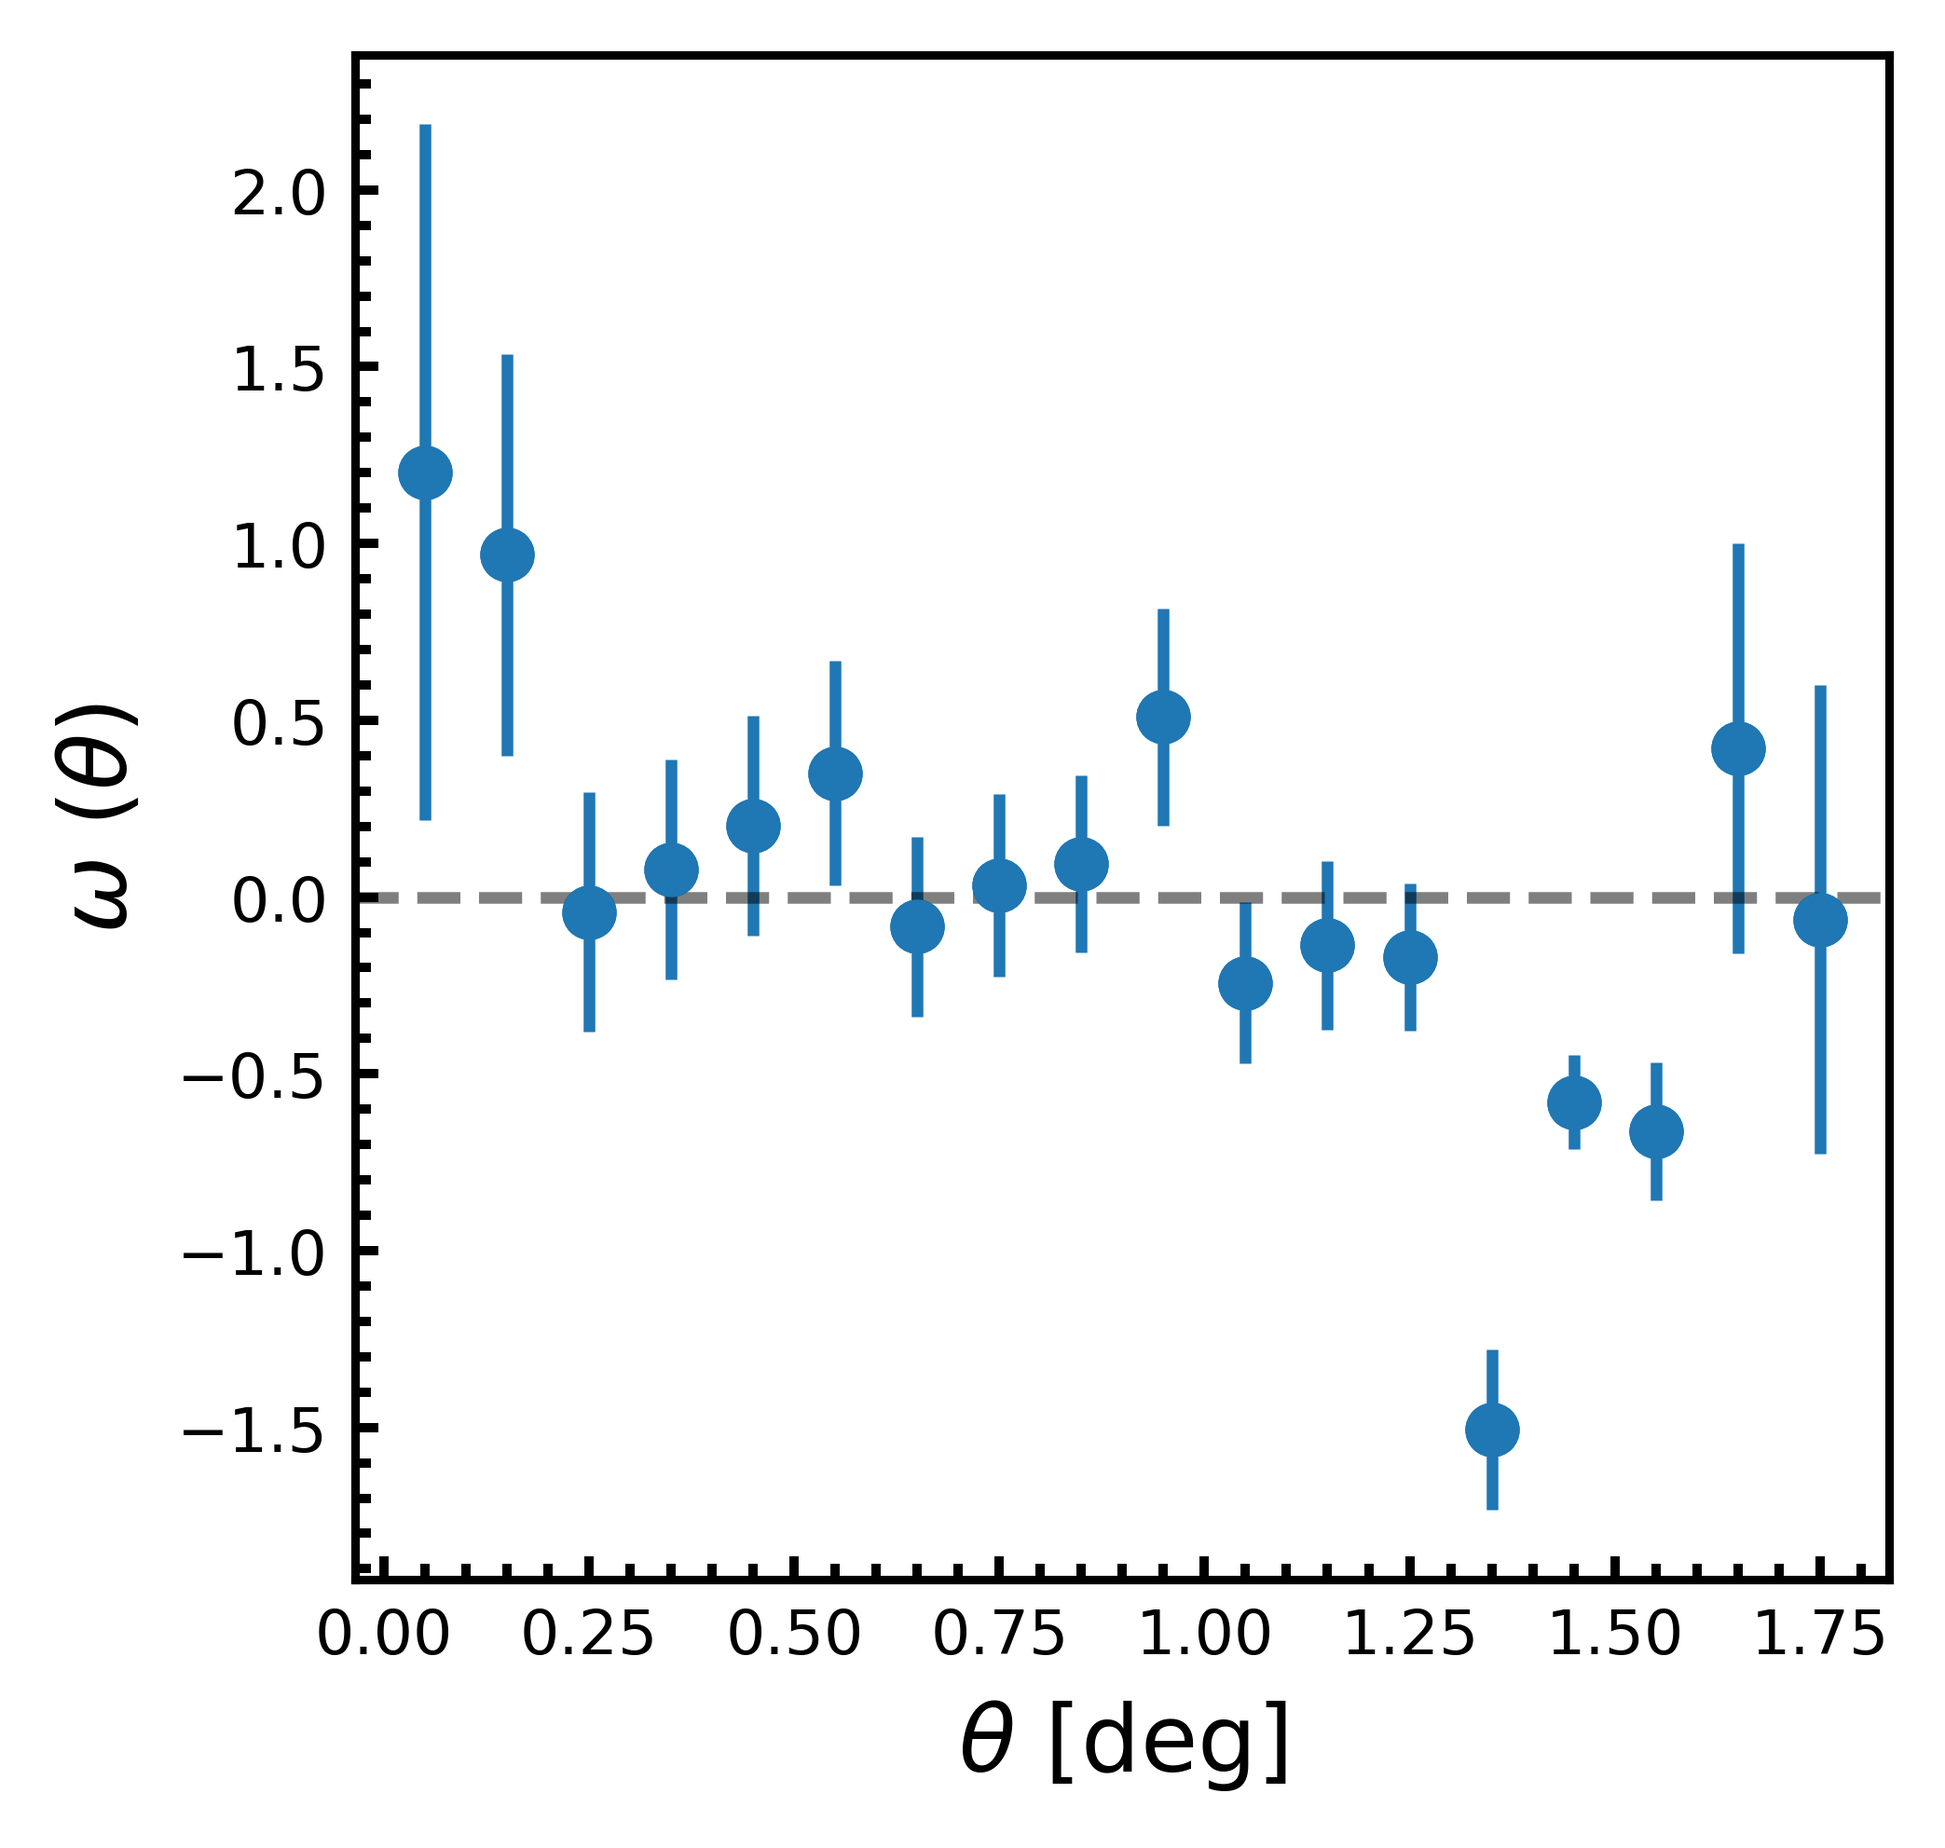
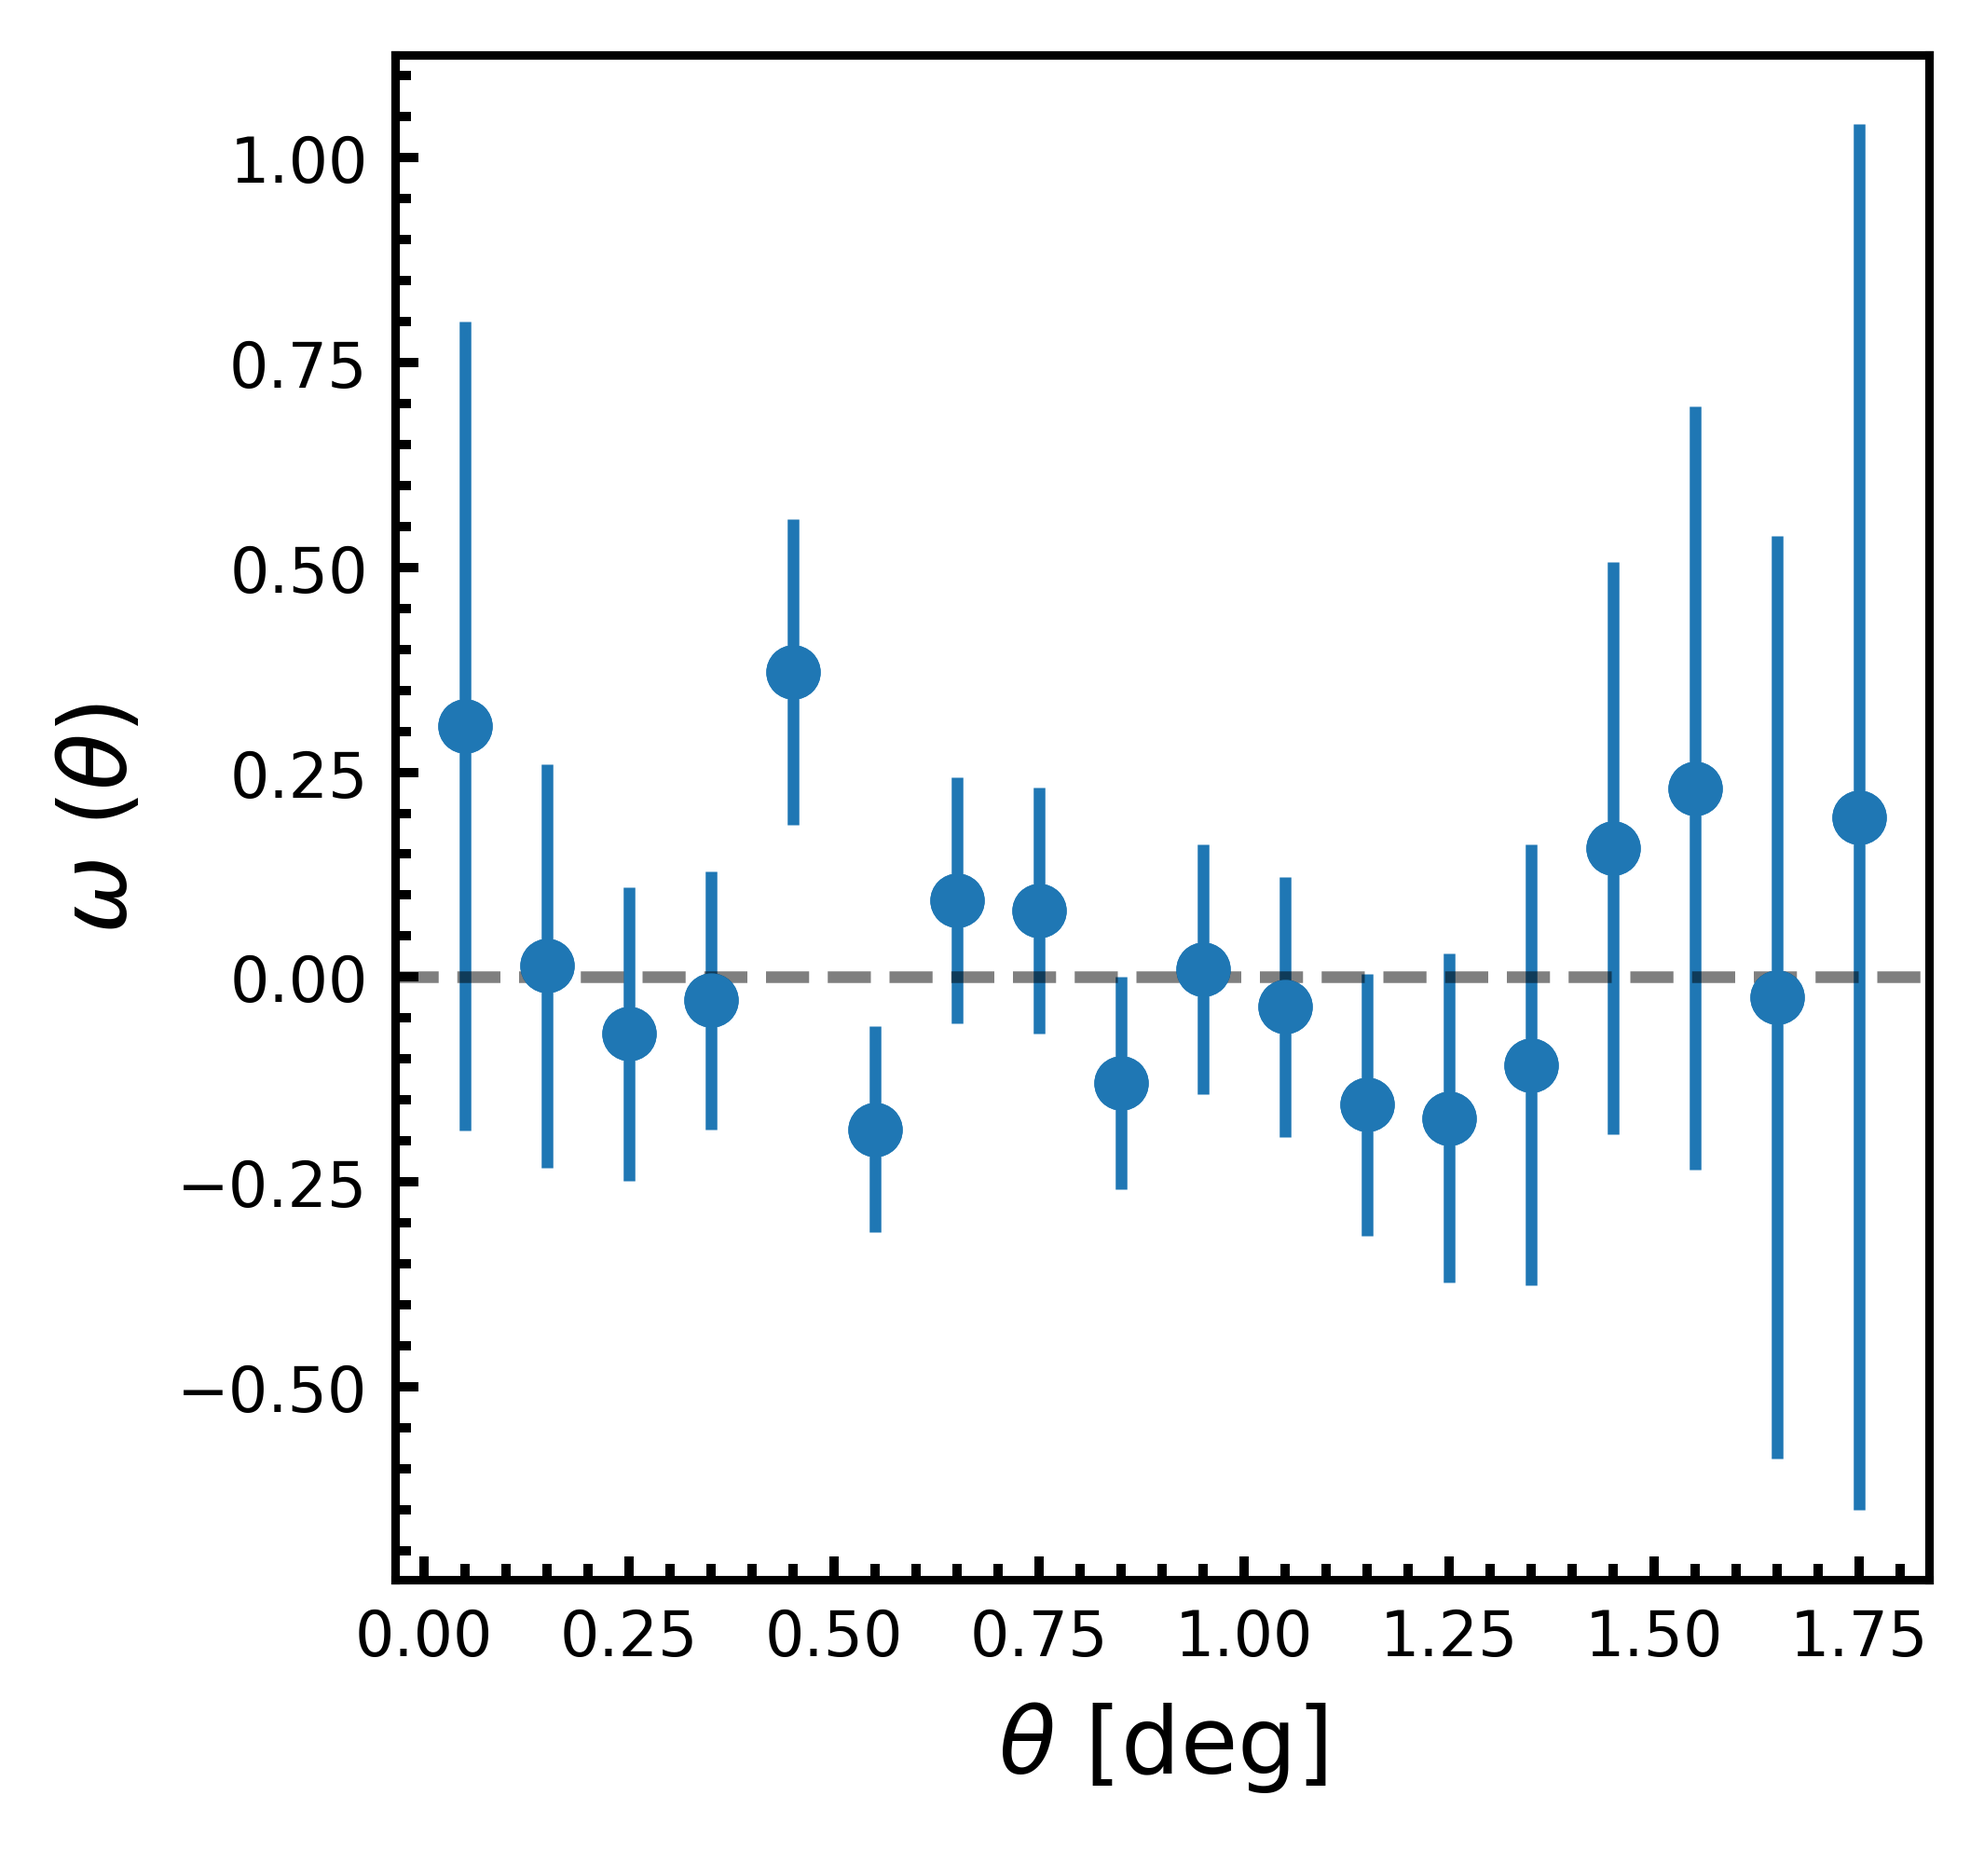
Adding postage stamps

diff --git a/plot_paper_postage_stamps.py b/plot_paper_postage_stamps.py
@@ -2,3 +2,136 @@
 Making postage stamp plots for the paper.
 """
 
+import numpy as np
+import matplotlib.pyplot as plt
+from pandas import DataFrame
+from astropy.io import fits
+from astropy.visualization import ZScaleInterval
+import scipy.ndimage as ndimage
+
+from plot_cumulative import cross_match_to_sexcat
+from sex_catalog import SExtractorCat
+from plot_postage_stamps import cut_postage_stamp
+from zero_points import zero_points
+from plotting import end_plot
+
+
+# Our candidates
+INFILE_US = 'candidates_e.txt'
+I_CATALOG = '../correct_stacks/N964/i.cat'
+Z_CATALOG = '../correct_stacks/N964/z.cat'
+N_CATALOG = '../correct_stacks/N964/n964.cat'
+I_FITS = '../correct_stacks/N964/i.fits'
+Z_FITS = '../correct_stacks/N964/z.fits'
+N_FITS = '../correct_stacks/N964/n964.fits'
+i_fits = fits.open(I_FITS)
+z_fits = fits.open(Z_FITS)
+n_fits = fits.open(N_FITS)
+
+SIGMA_I_3 = '>26.16'
+SIGMA_Z_3 = '>26.23'
+
+def fancy_round(mag) -> str:
+    """
+    Rounds a given mag value which can be either a flot or a string.
+    If it is a string then no rounding is done.
+    """
+    try:
+        val = round(mag, 2)
+    except TypeError:
+        val = mag
+    return str(val)
+
+def replace_non_detections(catalog: DataFrame, replacement_value: str) -> DataFrame:
+    """
+    Replaces the non detect corrected magnitudes with the replacement value.
+    Ususally this replacement value should be the 2 or 3 sigma limiting 
+    magnitude. catalog must have the MAG_CORR value calculated.
+    """
+    catalog.astype({'MAG_CORR': 'str'})
+    catalog.loc[catalog['MAG_APER'] == 99, 'MAG_CORR'] = replacement_value
+    catalog['SNR'] = (2.5/np.log(10))/catalog['MAGERR_APER']
+    return catalog
+
+catalog_names = [I_CATALOG, N_CATALOG, Z_CATALOG]
+ra, dec = np.loadtxt(INFILE_US, unpack=True)
+
+i_cat = cross_match_to_sexcat(ra, dec, SExtractorCat(I_CATALOG))
+z_cat = cross_match_to_sexcat(ra, dec, SExtractorCat(Z_CATALOG))
+n_cat = cross_match_to_sexcat(ra, dec, SExtractorCat(N_CATALOG))
+
+i_cat['MAG_CORR'] = i_cat['MAG_APER'] + zero_points.i_band.mag_correct(1)
+z_cat['MAG_CORR'] = z_cat['MAG_APER'] + zero_points.z_band.mag_correct(1)
+n_cat['MAG_CORR'] = n_cat['MAG_APER'] + zero_points.n964_band.mag_correct(1)
+
+i_cat = replace_non_detections(i_cat, SIGMA_I_3)
+z_cat = replace_non_detections(z_cat, SIGMA_Z_3)
+n_cat = replace_non_detections(n_cat, 'NAS')
+
+i_snr, i_mag = np.array(i_cat['SNR']), np.array(i_cat['MAG_CORR'])
+z_snr, z_mag = np.array(z_cat['SNR']), np.array(z_cat['MAG_CORR'])
+n_snr, n_mag = np.array(n_cat['SNR']), np.array(n_cat['MAG_CORR'])
+
+for i, ra_val in enumerate(ra):
+    z_data = cut_postage_stamp(ra_val, dec[i], z_fits)
+    i_data = cut_postage_stamp(ra_val, dec[i], i_fits)
+    n_data = cut_postage_stamp(ra_val, dec[i], n_fits)
+    z_scale = ZScaleInterval()
+    z_min, z_max = z_scale.get_limits(z_data)
+    i_min, i_max = z_scale.get_limits(i_data)
+    n_min, n_max = z_scale.get_limits(n_data)
+
+    z_data = ndimage.gaussian_filter(z_data, sigma=(1, 1), order=0)
+    i_data = ndimage.gaussian_filter(i_data, sigma=(1, 1), order=0)
+    n_data = ndimage.gaussian_filter(n_data, sigma=(1, 1), order=0)
+
+    fig = plt.figure()
+    ax_i = fig.add_subplot(131)
+    ax_n = fig.add_subplot(132)
+    ax_z = fig.add_subplot(133)
+    ax_i.get_xaxis().set_visible(False)
+    ax_i.get_yaxis().set_visible(False)
+    ax_z.get_xaxis().set_visible(False)
+    ax_z.get_yaxis().set_visible(False)
+    ax_n.get_xaxis().set_visible(False)
+    ax_n.get_yaxis().set_visible(False)
+
+    ax_i.imshow(i_data, vmin=i_min, vmax=i_max, cmap='gray_r')
+    ax_i.scatter(20.5, 20.5, marker='o', s=800, lw=1, facecolors='none', edgecolors='r')
+    ax_n.imshow(n_data, vmin=n_min, vmax=n_max, cmap='gray_r')
+    ax_n.scatter(20.5, 20.5, marker='o', s=800, lw=1, facecolors='none', edgecolors='r')
+    ax_z.imshow(z_data, vmin=z_min, vmax=z_max, cmap='gray_r')
+    ax_z.scatter(20.5, 20.5, marker='o', s=800, lw=1, facecolors='none', edgecolors='r')
+
+    ax_i.text(0.75, 0.1, f'{round(i_snr[i], 1)}',
+     horizontalalignment='center',
+     verticalalignment='center',
+     transform = ax_i.transAxes, fontsize=20, color='w')
+
+    ax_i.text(0.4, 0.85, fancy_round(i_mag[i]),
+     horizontalalignment='center',
+     verticalalignment='center',
+     transform = ax_i.transAxes, fontsize=20, color='w')
+
+    ax_z.text(0.75, 0.1, f'{round(z_snr[i], 1)}',
+     horizontalalignment='center',
+     verticalalignment='center',
+     transform = ax_z.transAxes, fontsize=20, color='w')
+
+    ax_z.text(0.4, 0.85, fancy_round(z_mag[i]),
+     horizontalalignment='center',
+     verticalalignment='center',
+     transform = ax_z.transAxes, fontsize=20, color='w')
+
+    ax_n.text(0.75, 0.1, f'{round(n_snr[i], 1)}',
+     horizontalalignment='center',
+     verticalalignment='center',
+     transform = ax_n.transAxes, fontsize=20, color='w')
+
+    ax_n.text(0.4, 0.85, fancy_round(n_mag[i]),
+     horizontalalignment='center',
+     verticalalignment='center',
+     transform = ax_n.transAxes, fontsize=20, color='w')
+
+    end_plot(f'postage_stamps/candidate_{i+1}.png')
+    plt.close()

diff --git a/angular_correlation_function.py b/angular_correlation_function.py
@@ -56,46 +56,51 @@ def full_angular_separation_function(data_data, data_random, random_random, thet
     return average_x_values, y_values, y_err_values
 
 
-INFILE = 'candidates.txt'
-DECAM_REGION_FILE = 'DECAM.reg'
-FITS_FILE  = '../correct_stacks/N964/n964.fits'
+if __name__ == '__main__':
+    INFILE = 'candidates_cdfs_e.txt'
+    DECAM_REGION_FILE = '../CDFS_LAGER/DECAM_CDFS.reg'#'DECAM.reg'
+    FITS_FILE  = '../CDFS_LAGER/n964.fits'#'../correct_stacks/N964/n964.fits'
 
-hdul = fits.open(FITS_FILE)
-wcs = WCS(hdul[0].header)
-ra_candidates, dec_candidates = np.loadtxt(INFILE, unpack=True)
-decam_region = load_region(DECAM_REGION_FILE)
+    hdul = fits.open(FITS_FILE)
+    wcs = WCS(hdul[0].header)
+    ra_candidates, dec_candidates = np.loadtxt(INFILE, unpack=True)
+    decam_region = load_region(DECAM_REGION_FILE)
 
-ra_min, ra_max = 355.95*u.deg.to(u.rad), 358.3*u.deg.to(u.rad)
-dec_min, dec_max = -31.82*u.deg.to(u.rad), -29.84*u.deg.to(u.rad)
+    #ra_min, ra_max = 355.95*u.deg.to(u.rad), 358.3*u.deg.to(u.rad)
+    #dec_min, dec_max = -31.82*u.deg.to(u.rad), -29.84*u.deg.to(u.rad)
 
-"""
-Populate the random galaxies within the DECcam region.
-100 000, keeping with Ota, 2018.
-"""
-
-NUMBER_RANDOM_GALS=1000
-ra_rad = np.random.uniform(ra_min,ra_max, NUMBER_RANDOM_GALS)
-dec_rad = np.arcsin(np.random.uniform(np.sin(dec_min), np.sin(dec_max), NUMBER_RANDOM_GALS))
-ra_deg = ra_rad*u.rad.to(u.deg)
-dec_deg = dec_rad*u.rad.to(u.deg)
-ra_pix, dec_pix = wcs.world_to_pixel_values(ra_deg, dec_deg)
-
-msk = get_region_mask(ra_pix, dec_pix, decam_region)
-ra_random, dec_random = ra_deg[msk], dec_deg[msk]
-
-print('DD')
-data_data_dist = count_differences(ra_candidates, dec_candidates)
-print('DR')
-data_random_dist = count_differnces_diff_arrays(ra_candidates, dec_candidates, ra_random, dec_random)
-print('RR')
-random_random_dist = count_differences(ra_random, dec_random)
+    ra_min, ra_max = 53.8853418 * u.deg.to(u.rad), 51.4000866 * u.deg.to(u.rad)
+    dec_min, dec_max = -29 * u.deg.to(u.rad), -27*u.deg.to(u.rad)
 
 
-x, y, yerr = full_angular_separation_function(data_data_dist, data_random_dist, random_random_dist, np.arange(0,1.9,0.1))
+    """
+    Populate the random galaxies within the DECcam region.
+    100 000, keeping with Ota, 2018.
+    """
+
+    NUMBER_RANDOM_GALS=1000
+    ra_rad = np.random.uniform(ra_min,ra_max, NUMBER_RANDOM_GALS)
+    dec_rad = np.arcsin(np.random.uniform(np.sin(dec_min), np.sin(dec_max), NUMBER_RANDOM_GALS))
+    ra_deg = ra_rad*u.rad.to(u.deg)
+    dec_deg = dec_rad*u.rad.to(u.deg)
+    ra_pix, dec_pix = wcs.world_to_pixel_values(ra_deg, dec_deg)
+
+    msk = get_region_mask(ra_pix, dec_pix, decam_region)
+    ra_random, dec_random = ra_deg[msk], dec_deg[msk]
+
+    print('DD')
+    data_data_dist = count_differences(ra_candidates, dec_candidates)
+    print('DR')
+    data_random_dist = count_differnces_diff_arrays(ra_candidates, dec_candidates, ra_random, dec_random)
+    print('RR')
+    random_random_dist = count_differences(ra_random, dec_random)
 
 
-plotting.start_plot(r'$\theta$ [deg]', r'$\omega$ ($\theta$)')
-plt.errorbar(x, y, yerr=yerr, fmt='o')
-plt.scatter(x, y)
-plt.axhline(0, ls ='--', color='k', alpha=0.5)
-plotting.end_plot('plots/angular_tpcf.png')
+    x, y, yerr = full_angular_separation_function(data_data_dist, data_random_dist, random_random_dist, np.arange(0,1.9,0.1))
+
+
+    plotting.start_plot(r'$\theta$ [deg]', r'$\omega$ ($\theta$)')
+    plt.errorbar(x, y, yerr=yerr, fmt='o')
+    plt.scatter(x, y)
+    plt.axhline(0, ls ='--', color='k', alpha=0.5)
+    plotting.end_plot('plots/angular_tpcf_cdfs.png')

diff --git a/plot_cdfs_surface_density.py b/plot_cdfs_surface_density.py
@@ -48,20 +48,20 @@ region_decam_fov = load_region(REGION_FILE)
 
 if __name__ == '__main__':
     #Determine Area of CDFS
-    CDFS_REGION = '../CDFS_LAGER/DECAM_CDFS.reg'
-    CDFS_CANDIDATES = 'candidates_cdfs.txt'
-    number_candidates_cdfs = len(np.loadtxt(CDFS_CANDIDATES))
-    AREA_PER_PIXEL = (0.27/3600) * (0.27/3600)  # square degrees
-    regions = Regions.read(CDFS_REGION, format='ds9')
-    number_pixels = regions[0].area
-    area_cdfs_degrees = number_pixels * AREA_PER_PIXEL
+    #CDFS_REGION = '../CDFS_LAGER/DECAM_CDFS.reg'
+    #CDFS_CANDIDATES = 'candidates_cdfs_e.txt'
+    #number_candidates_cdfs = len(np.loadtxt(CDFS_CANDIDATES))
+    #AREA_PER_PIXEL = (0.27/3600) * (0.27/3600)  # square degrees
+    #regions = Regions.read(CDFS_REGION, format='ds9')
+    #number_pixels = regions[0].area
+    #area_cdfs_degrees = number_pixels * AREA_PER_PIXEL
 
-    number_pixels_qso = get_number_pixels_of_region('DECAM.reg')
+    #number_pixels_qso = get_number_pixels_of_region('DECAM.reg')
 
-    print('Area ratio: ', number_pixels/number_pixels_qso)
+    #print('Area ratio: ', number_pixels/number_pixels_qso)
 
 
-    INFILE = 'candidates_cdfs.txt'
+    INFILE = 'candidates_cdfs_e.txt'
     ra, dec = np.loadtxt(INFILE, unpack=True)
 
     ra_plot, dec_plot = decam_wcs.world_to_pixel_values(ra, dec)
@@ -82,7 +82,6 @@ if __name__ == '__main__':
     region_20.plot(ax=ax, color='red', lw=2.0, ls=':')
     region_decam_fov.plot(ax = ax, color='k', lw=2.0)
     ax.scatter(ra_plot, dec_plot)
-    ax.scatter(ra_qso_plot, dec_qso_plot, marker='*', s=100, color='k')
     plotting.end_plot('plots/on_sky_distribution_cdfs.png')
 
     #on sky surface distribution plot.
@@ -128,7 +127,7 @@ if __name__ == '__main__':
 
     ax2 = ax.twinx()
     ax2.errorbar(average_radii_mpc, counts/areas_deg.value, yerr=np.sqrt(counts)/areas_deg.value, alpha=0)
-    ax2.axhline(number_candidates_cdfs/area_cdfs_degrees)
+    #ax2.axhline(number_candidates_cdfs/area_cdfs_degrees)
     ax2.set_ylabel(r'Surface Density [deg$^{-2}$]')
     ax2.minorticks_on()
     ax2.tick_params(which='both', width=1.2,direction='in')

diff --git a/plot_postage_stamps.py b/plot_postage_stamps.py
@@ -6,9 +6,9 @@ import pylab as plt
 from astropy.io import fits
 from astropy.wcs import WCS
 
-PAD = 15 # pixels
+PAD = 20 # pixels
 
-def cut_postage_stamp(r_a: float, dec: float, image):
+def cut_postage_stamp(r_a: float, dec: float, image: fits.hdu.HDUList) -> np.ndarray:
     """Cutting out a postage stamp centered on r_a, and dec (in decimal degrees)"""
     wcs = WCS(image[0].header)
     x_pix, y_pix  = wcs.world_to_pixel_values(r_a, dec)
